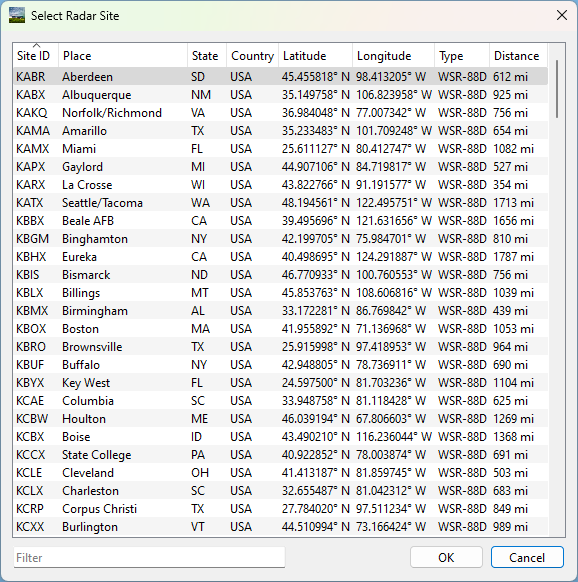
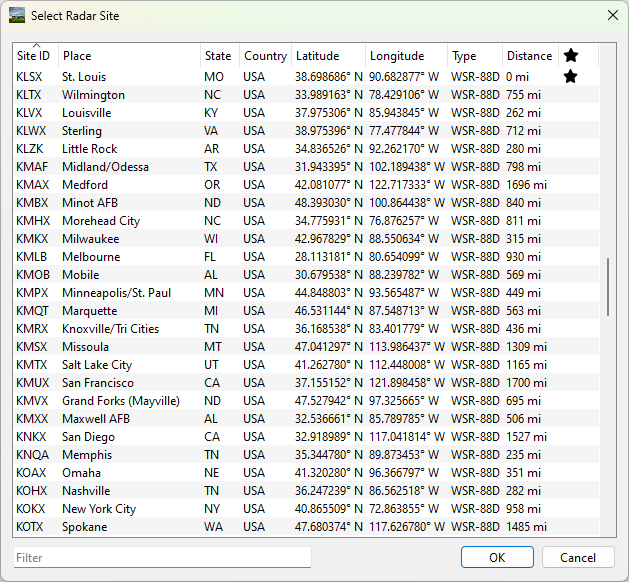
Updates for v0.3.1

Changed region(s): [[0.0, 0.0, 1.0, 1.0]]

diff --git a/user-guide/radar-toolbox.rst b/user-guide/radar-toolbox.rst
@@ -11,19 +11,32 @@ Radar Site
 ^^^^^^^^^^
 
 The Radar Site section shows the currently active radar site for the selected
-map, along with the site's location. Pressing the site selection button to the
-right displays the Select Radar Site dialog.
+map, along with the site's location.
+
+.. image:: images/radar-toolbox-01-radar-site.png
+
+Pressing the **Site Selection** button to the right displays the Select Radar Site
+dialog.
 
 .. image:: images/radar-toolbox-01-radar-site-dialog.png
 
 Radar Sites can be sorted or filtered by various parameters, including Site ID,
-location, type, and distance from the current location. Double-clicking a site
-or pressing OK will pan the map and load radar data for new site.
+location, type, and distance from the current location. Clicking the far-right
+column to add or remove a star icon will toggle the site as a preset.
+Double-clicking a site or pressing OK will pan the map and load radar data for
+the new site.
 
 .. note:: If the new site does not have the same radar products available as the
           previously selected site, an alternate radar product may need to be
           selected before updated data will display. This is especially the case
           when switching between WSR-88D and TDWR sites.
+
+Pressing the **Home** button will change the active radar site to the default
+defined in settings.
+
+If radar site presets have been configured, the **Presets** button will display.
+Pressing the **Presets** button will provide a dropdown menu with selected
+presets.
 
 VCP
 ^^^
@@ -37,6 +50,8 @@ For more information about VCPs, visit https://www.noaa.gov/jetstream/vcp_max.
 
 Map Settings
 ------------
+
+.. image:: images/radar-toolbox-07-map-settings.png
 
 Map Style
 ^^^^^^^^^
@@ -54,6 +69,14 @@ provider's website:
 
 Shortcut: ``s`` or both mouse buttons
 
+Track Location
+^^^^^^^^^^^^^^
+
+The **Track Location** checkbox will query the operating system for the current
+location. The current location will appear as a crosshair icon on the map:
+
+.. image:: images/radar-toolbox-07-crosshairs.png
+
 Radar Products
 --------------
 
@@ -63,60 +86,98 @@ Level 2
 .. image:: images/radar-toolbox-02-level2-products.png
 
 Reflectivity
-""""""""""""""""""""""""
+""""""""""""
 
 .. image:: images/radar-toolbox-02-level2-ref.png
 
-Level 2 Reflectivity (REF) is raw radar data that provides measurements of the intensity of reflected radar signals from precipitation targets, such as raindrops or snowflakes. This is commonly used to visualize the intensity of precipitation. Also note that this data is generally used for a more in-depth examination in comparison to Level 3 data.
+Level 2 Reflectivity (REF) is raw radar data that provides measurements of the
+intensity of reflected radar signals from precipitation targets, such as
+raindrops or snowflakes. This is commonly used to visualize the intensity of
+precipitation. Also note that this data is generally used for a more in-depth
+examination in comparison to Level 3 data.
 
 Velocity
-""""""""""""""""""""""""
+""""""""
 
 .. image:: images/radar-toolbox-02-level2-vel.png
 
-Level 2 Velocity (VEL) is raw radar data that provides measurements related to the motion of precipitation targets. It specifically focuses on the velocity or speed at which the precipitation targets are moving towards or away from the radar system. This is commonly used to identify areas of rotation, wind patterns, and the presence of severe weather phenomena like tornadoes or strong winds and derechos.
+Level 2 Velocity (VEL) is raw radar data that provides measurements related to
+the motion of precipitation targets. It specifically focuses on the velocity or
+speed at which the precipitation targets are moving towards or away from the
+radar system. This is commonly used to identify areas of rotation, wind
+patterns, and the presence of severe weather phenomena like tornadoes or strong
+winds and derechos.
 
 Spectrum Width
-""""""""""""""""""""""""
+""""""""""""""
 
 .. image:: images/radar-toolbox-02-level2-sw.png
 
-Level 2 Spectrum Width (SW) is raw radar data that represents the variation or dispersion in the Doppler velocities of precipitation targets within a radar beam. High values of spectrum width generally suggest the presence of turbulent atmospheric conditions, such as strong updrafts and downdrafts.
+Level 2 Spectrum Width (SW) is raw radar data that represents the variation or
+dispersion in the Doppler velocities of precipitation targets within a radar
+beam. High values of spectrum width generally suggest the presence of turbulent
+atmospheric conditions, such as strong updrafts and downdrafts.
 
 Differential Reflectivity
 """""""""""""""""""""""""
 
 .. image:: images/radar-toolbox-02-level2-zdr.png
 
-Level 2 Differential Reflectivity (ZDR) is raw radar data that measures the differences in the intensity of the returned radar signals between horizontal and vertical polarizations. It provides information about the shape and characteristics of the precipitation targets, such as raindrops, snowflakes, or hail. Positive values of ZDR indicate oblong or horizontally elongated targets, like raindrops or melting snowflakes, while negative values suggest spherical or vertically elongated targets, like hail or ice crystals. 
+Level 2 Differential Reflectivity (ZDR) is raw radar data that measures the
+differences in the intensity of the returned radar signals between horizontal
+and vertical polarizations. It provides information about the shape and
+characteristics of the precipitation targets, such as raindrops, snowflakes, or
+hail. Positive values of ZDR indicate oblong or horizontally elongated targets,
+like raindrops or melting snowflakes, while negative values suggest spherical or
+vertically elongated targets, like hail or ice crystals. 
 
 Differential Phase
 """"""""""""""""""
 
 .. image:: images/radar-toolbox-02-level2-phi.png
 
-Level 2 Differential Phase (PHI) is raw radar data that measures the phase difference between the horizontally and vertically polarized radar signals. PHI helps in identifying phenomena like melting layers, supercooled liquid droplets, and distinguishing between different types of precipitation particles.
+Level 2 Differential Phase (PHI) is raw radar data that measures the phase
+difference between the horizontally and vertically polarized radar signals. PHI
+helps in identifying phenomena like melting layers, supercooled liquid droplets,
+and distinguishing between different types of precipitation particles.
 
 Correlation Coefficient
 """""""""""""""""""""""
 
 .. image:: images/radar-toolbox-02-level2-rho.png
 
-Level 2 Correlation Coefficient (RHO) is raw radar data that measures the similarity or correlation between the horizontally and vertically polarized radar signals. When RHO values are high, objects within the atmosphere have a stronger correlation, they are similar in size like raindrops. When the RHO values drop, different objects differ in size, and is likely indicative of debris. This helps in identifying if there's debris from strong areas of rotation indicated from VEL data.
+Level 2 Correlation Coefficient (RHO) is raw radar data that measures the
+similarity or correlation between the horizontally and vertically polarized
+radar signals. When RHO values are high, objects within the atmosphere have a
+stronger correlation, they are similar in size like raindrops. When the RHO
+values drop, different objects differ in size, and is likely indicative of
+debris. This helps in identifying if there's debris from strong areas of
+rotation indicated from VEL data.
 
 Clutter Filter Power Removed
 """"""""""""""""""""""""""""
 
 .. image:: images/radar-toolbox-02-level2-cfp.png
 
-Level 2 Clutter Filter Power Removed (CFP) is raw radar data that quantifies the amount of power or signal that has been removed by the clutter filtering algorithm. Clutter refers to unwanted radar echoes caused by non-meteorological objects such as buildings, trees, or ground features. The clutter filtering algorithm is designed to reduce the impact of these unwanted signals, allowing for a clearer representation of the meteorological targets, such as precipitation. A higher CFP value indicates a higher amount of clutter power successfully eliminated by the clutter filtering process.
+Level 2 Clutter Filter Power Removed (CFP) is raw radar data that quantifies the
+amount of power or signal that has been removed by the clutter filtering
+algorithm. Clutter refers to unwanted radar echoes caused by non-meteorological
+objects such as buildings, trees, or ground features. The clutter filtering
+algorithm is designed to reduce the impact of these unwanted signals, allowing
+for a clearer representation of the meteorological targets, such as
+precipitation. A higher CFP value indicates a higher amount of clutter power
+successfully eliminated by the clutter filtering process.
 
 Level 2 Elevation
 """""""""""""""""
 
 .. image:: images/radar-toolbox-03-level2-product-elevation.png
 
-The elevation buttons allow the user to specify a particular elevation angle of interest for data retrieval or display. Elevation angles are measured in degrees and represent the vertical tilt of the radar beam relative to the horizontal plane. Different elevation angles provide information about different layers of the atmosphere. Each Level 2 product in Supercell Wx will give you this ability.
+The elevation buttons allow the user to specify a particular elevation angle of
+interest for data retrieval or display. Elevation angles are measured in degrees
+and represent the vertical tilt of the radar beam relative to the horizontal
+plane. Different elevation angles provide information about different layers of
+the atmosphere. Each Level 2 product in Supercell Wx will give you this ability.
 
 For more information about elevation, visit https://www.noaa.gov/jetstream/vcp_max.
 
@@ -135,10 +196,14 @@ Reflectivity Data Selection:
 .. image:: images/radar-toolbox-04-level3-dataselref.png
 
 
-Level 3 Reflectivity (REF) is processed radar data that has been aggregated and averaged over larger spatial areas and time periods. This is commonly used to visualize the intensity of precipitation, and is used more-so for weather monitoring purposes. You can view Level 3 Reflectivity as Super-Resolution Data or as the standard Digital Reflectivity data.
+Level 3 Reflectivity (REF) is processed radar data that has been aggregated and
+averaged over larger spatial areas and time periods. This is commonly used to
+visualize the intensity of precipitation, and is used more-so for weather
+monitoring purposes. You can view Level 3 Reflectivity as Super-Resolution Data
+or as the standard Digital Reflectivity data.
 
 Velocity
-""""""""""""
+""""""""
 
 .. image:: images/radar-toolbox-04-level3-vel.png
 
@@ -146,7 +211,10 @@ Velocity Data Selection:
 
 .. image:: images/radar-toolbox-04-level3-dataselvel.png
 
-Level 3 Velocity (VEL) is radar data that aggregates and averages the velocity measurements obtained from Level 2 radar data over larger areas and time periods to create a simplified representation of motion patterns. You can view Level 3 Velocity as Super-Resolution Data or as the standard Digital Velocity data.
+Level 3 Velocity (VEL) is radar data that aggregates and averages the velocity
+measurements obtained from Level 2 radar data over larger areas and time periods
+to create a simplified representation of motion patterns. You can view Level 3
+Velocity as Super-Resolution Data or as the standard Digital Velocity data.
 
 Tilt Selection:
 
@@ -160,7 +228,11 @@ Timeline
 Auto Update
 ^^^^^^^^^^^
 
-The Auto Update status provides information about the status of your radar data, indicating whether you are currently receiving the most recent updates or if the feature has been disabled. Auto Update is active in two scenarios: when the animation is playing in Live View or when you access the latest scan using the end button (By default, you are always viewing the latest scan).
+The Auto Update status provides information about the status of your radar data,
+indicating whether you are currently receiving the most recent updates or if the
+feature has been disabled. Auto Update is active in two scenarios: when the
+animation is playing in Live View or when you access the latest scan using the
+end button (By default, you are always viewing the latest scan).
 
 Enabled:
 
@@ -173,14 +245,16 @@ Disabled:
 Live View
 ^^^^^^^^^
 
-Live View enables you to observe real-time updates from the radar site you have selected, ensuring you stay up to date with the latest information.
+Live View enables you to observe real-time updates from the radar site you have
+selected, ensuring you stay up to date with the latest information.
 
 Archive View
 ^^^^^^^^^^^^
 
-With Archive View, you have the ability to access historical radar data. 
+With Archive View, you have the ability to access historical radar data.
 
-.. note::  Older Level 2 formats, circa 2008 and prior, are not currently supported.
+.. note:: Older Level 2 formats, circa 2008 and prior, are not currently
+          supported.
 
 Animation Controls
 ^^^^^^^^^^^^^^^^^^

diff --git a/getting-started/initial-setup.rst b/getting-started/initial-setup.rst
@@ -25,6 +25,20 @@ Linux Setup
 *Minimum requirements: Linux/X11 with support for GCC 11 and OpenGL (e.g.,
 Fedora 34+, Ubuntu 22.04+, EndeavourOS, openSUSE Tumbleweed)*
 
+AppImage
+""""""""
+
+The Linux AppImage is the preferred way to run Supercell Wx on Linux. It
+packages most required dependencies in order to run on a large number of modern
+Linux distributions without additional setup requirements.
+
+To run the AppImage, download the appropriate file with the .AppImage extension,
+add executable permissions, and double-click the application or launch it from
+the command line.
+
+Binary Release (tar.gz)
+"""""""""""""""""""""""
+
 Supercell Wx uses Qt for its interface. The Qt libraries that Supercell Wx
 depend on are included in each release, but the Qt libraries may have
 `additional dependencies <https://doc.qt.io/qt-6/linux-requirements.html>`_
@@ -95,10 +109,17 @@ Map Controls
 
 Supercell Wx uses `MapLibre GL Native
 <https://github.com/maplibre/maplibre-gl-native>`_ to render a responsive map.
-To pan the map, click and drag the mouse. Use the mouse wheel to zoom, or double
-click using the left or right mouse button to zoom in or out respectively.
-Pressing ``s`` or both left and right mouse buttons will cycle through map
-styles, including light, dark and satellite underlays.
+
+To pan the map, left-click and drag the mouse. To rotate the map, right-click
+and drag the mouse. To reset the rotation to a north-up orientation, left-click
+the compass icon in the upper right corner of the map. Use the mouse wheel to
+zoom, or double click using the left or right mouse button to zoom in or out
+respectively. Pressing ``s`` or both left and right mouse buttons will cycle
+through map styles, including light, dark and satellite underlays.
+
+For more information about the displayed radar product, hover over the time in
+the upper right of the map. Hold the ``SHIFT`` key to view radar moment data or
+other derived information underneath the cursor.
 
 Customization
 -------------

diff --git a/user-guide/layer-manager.rst b/user-guide/layer-manager.rst
@@ -62,3 +62,22 @@ any of the 1-4 grid panels.
 
 Some layers are not adjustable by design, such as the Map Overlay, Color Table,
 Map Symbology, and the Map Underlay.
+
+Shortcut
+^^^^^^^^
+
+Select layers are available to display or hide from the **View > Map Layers**
+menu as a quick shortcut for commonly-toggled layers. Selecting a layer from
+this menu will display or hide the layer from all maps in the grid.
+
+Layer Descriptions
+^^^^^^^^^^^^^^^^^^
+
+Radar Sites
+"""""""""""
+
+This layer allows Radar Site selection from the map.
+
+Shortcut: **View > Map Layers > Radar Sites**
+
+.. image:: images/layer-manager-10-radar-sites.png

diff --git a/user-guide/settings.rst b/user-guide/settings.rst
@@ -19,6 +19,17 @@ button beside the respective setting.
 General
 -------
 
+Theme
+^^^^^
+
+**Default** will select the default Qt theme for the operating system being used.
+For Windows, this is the *Windows Vista* style, and for Linux, this is the
+*Fusion* style. This typically gives a native look-and-feel consistent with the
+rest of the operating system.
+
+**Fusion** will select the Fusion theme. On Linux, this is already the default.
+On Windows, this will enable a Dark Mode if turned on in Windows settings.
+
 Default Radar Site
 ^^^^^^^^^^^^^^^^^^
 
